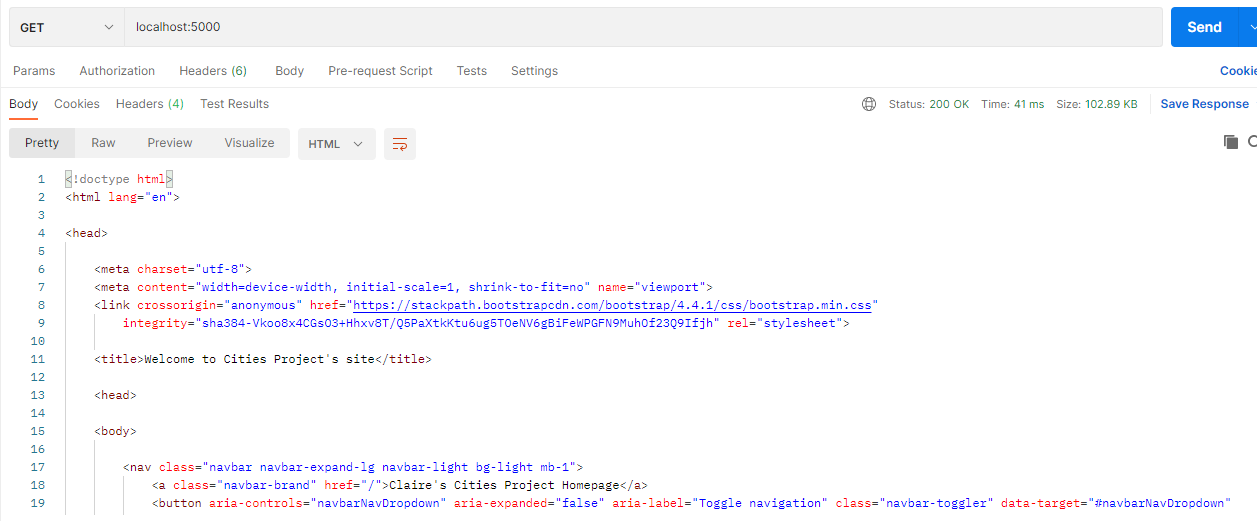
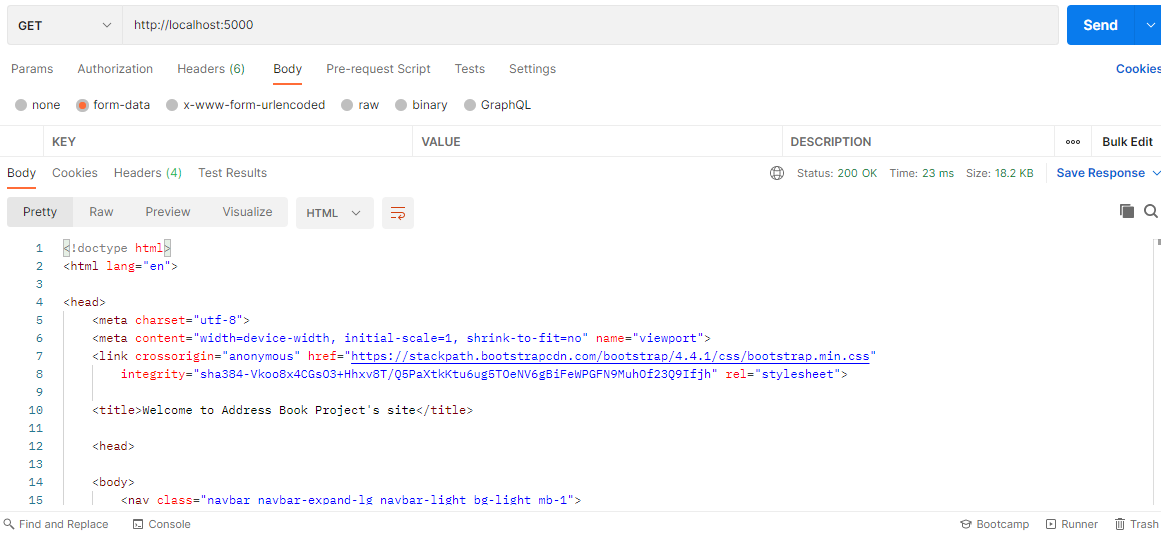
update

diff --git a/app/templates/layout.html b/app/templates/layout.html
@@ -13,7 +13,7 @@
 <head>
  <body>
 <nav class="navbar navbar-expand-lg navbar-light bg-light mb-1">
-  <a class="navbar-brand" href="/">Claire {% if user %}{{ user.username }} Homepage{% else %}
+  <a class="navbar-brand" href="/">Claire's {% if user %} {{ user.username }} Homepage{% else %}
     <title>Welcome to My Homepage</title>
     {% endif %}</a>
   <button aria-controls="navbarNavDropdown" aria-expanded="false" aria-label="Toggle navigation" class="navbar-toggler" data-target="#navbarNavDropdown" data-toggle="collapse" type="button">

diff --git a/app/app.py b/app/app.py
@@ -20,7 +20,7 @@ mysql.init_app(app)
 
 @app.route('/', methods=['GET'])
 def index():
-    user = {'username': 'Address Project'}
+    user = {'username': 'Address Book Project'}
     cursor = mysql.get_db().cursor()
     cursor.execute('SELECT * FROM addresses')
     result = cursor.fetchall()
